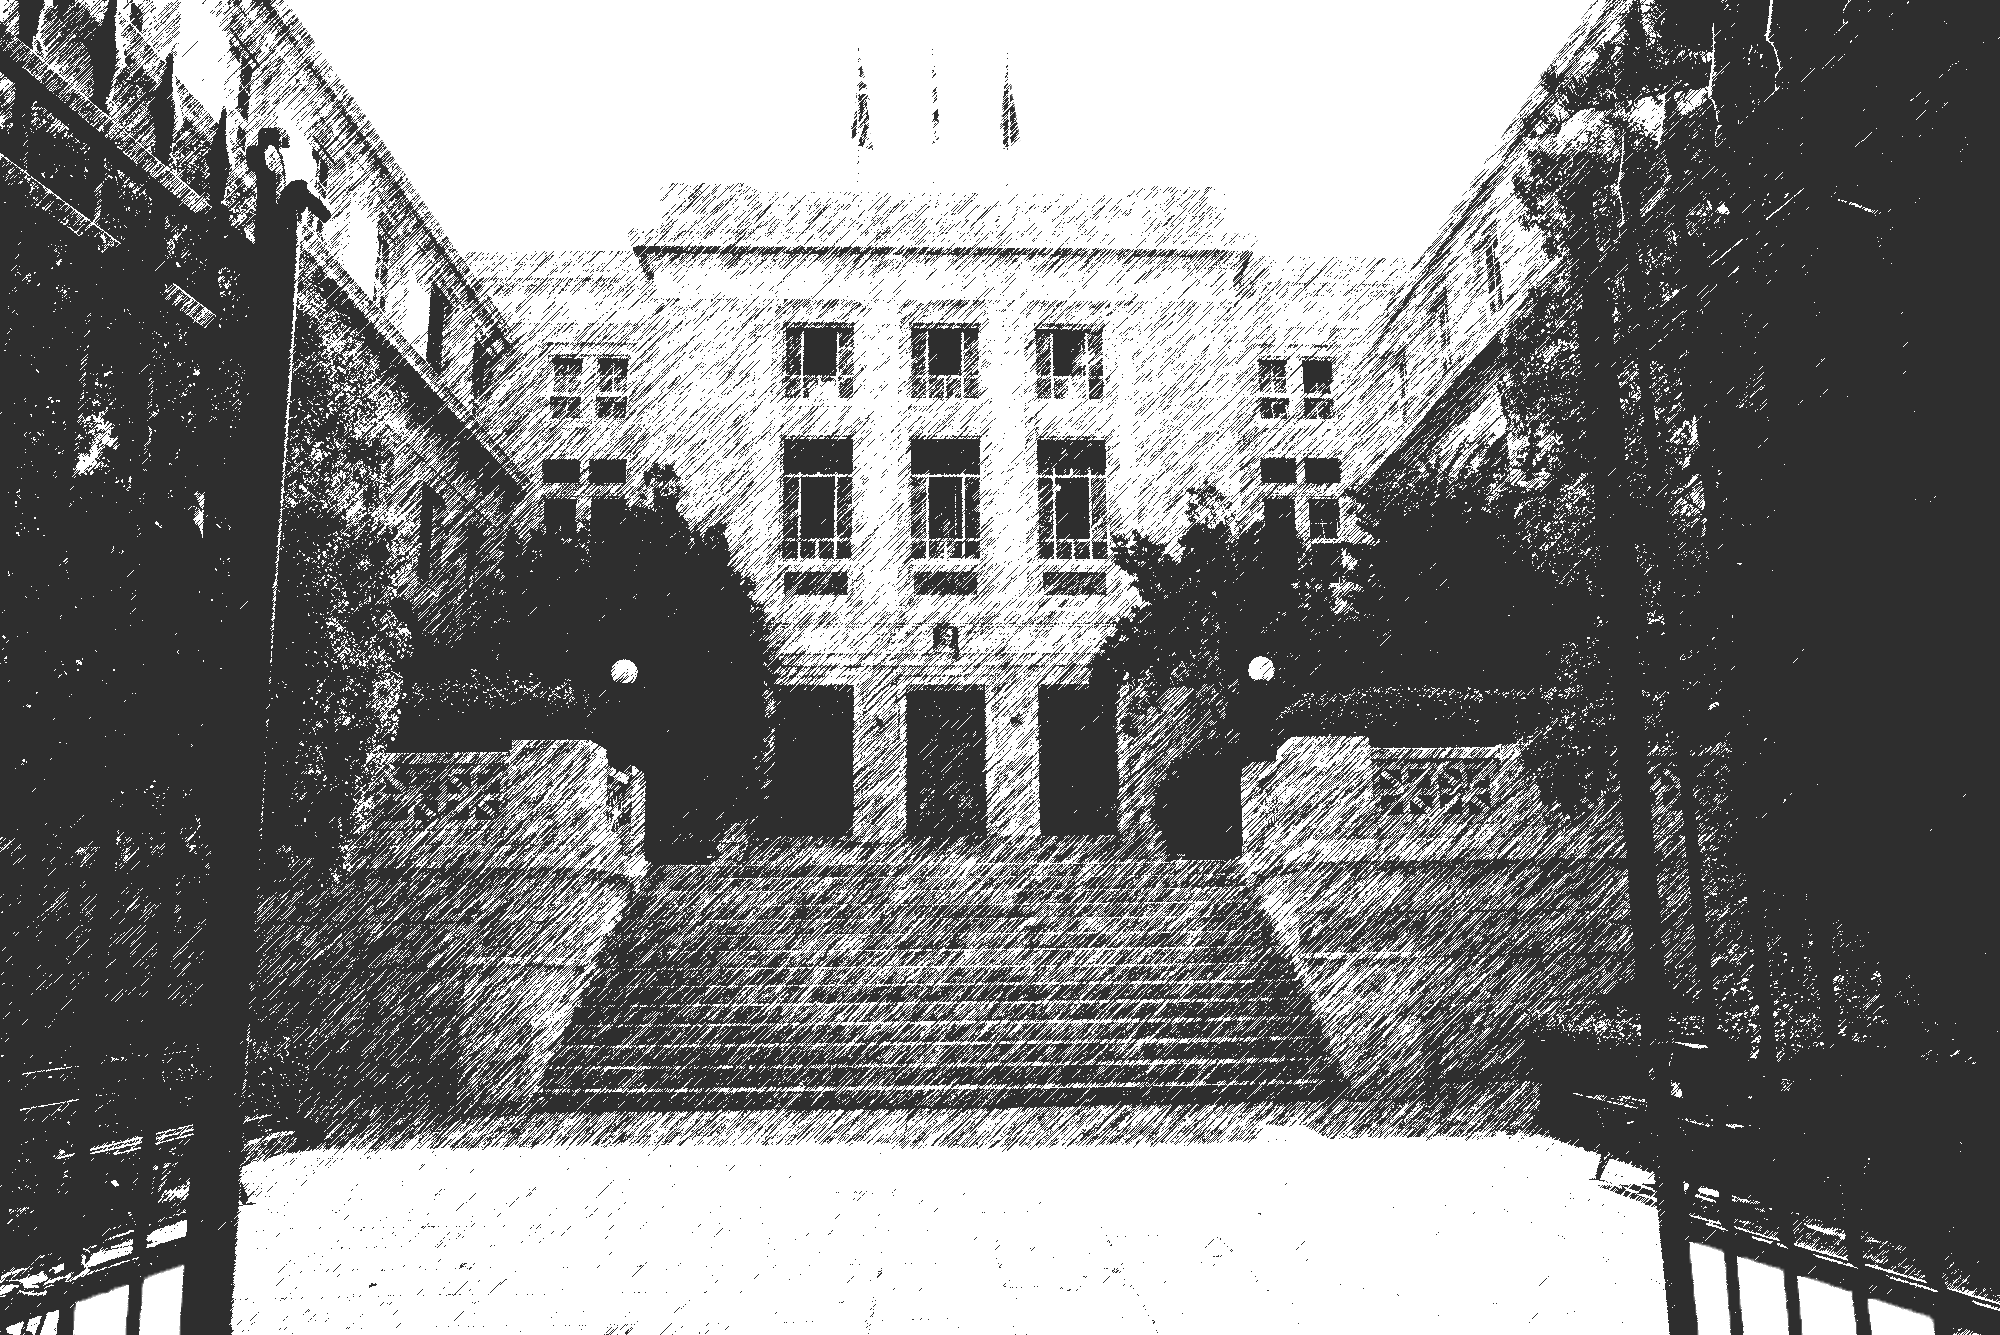
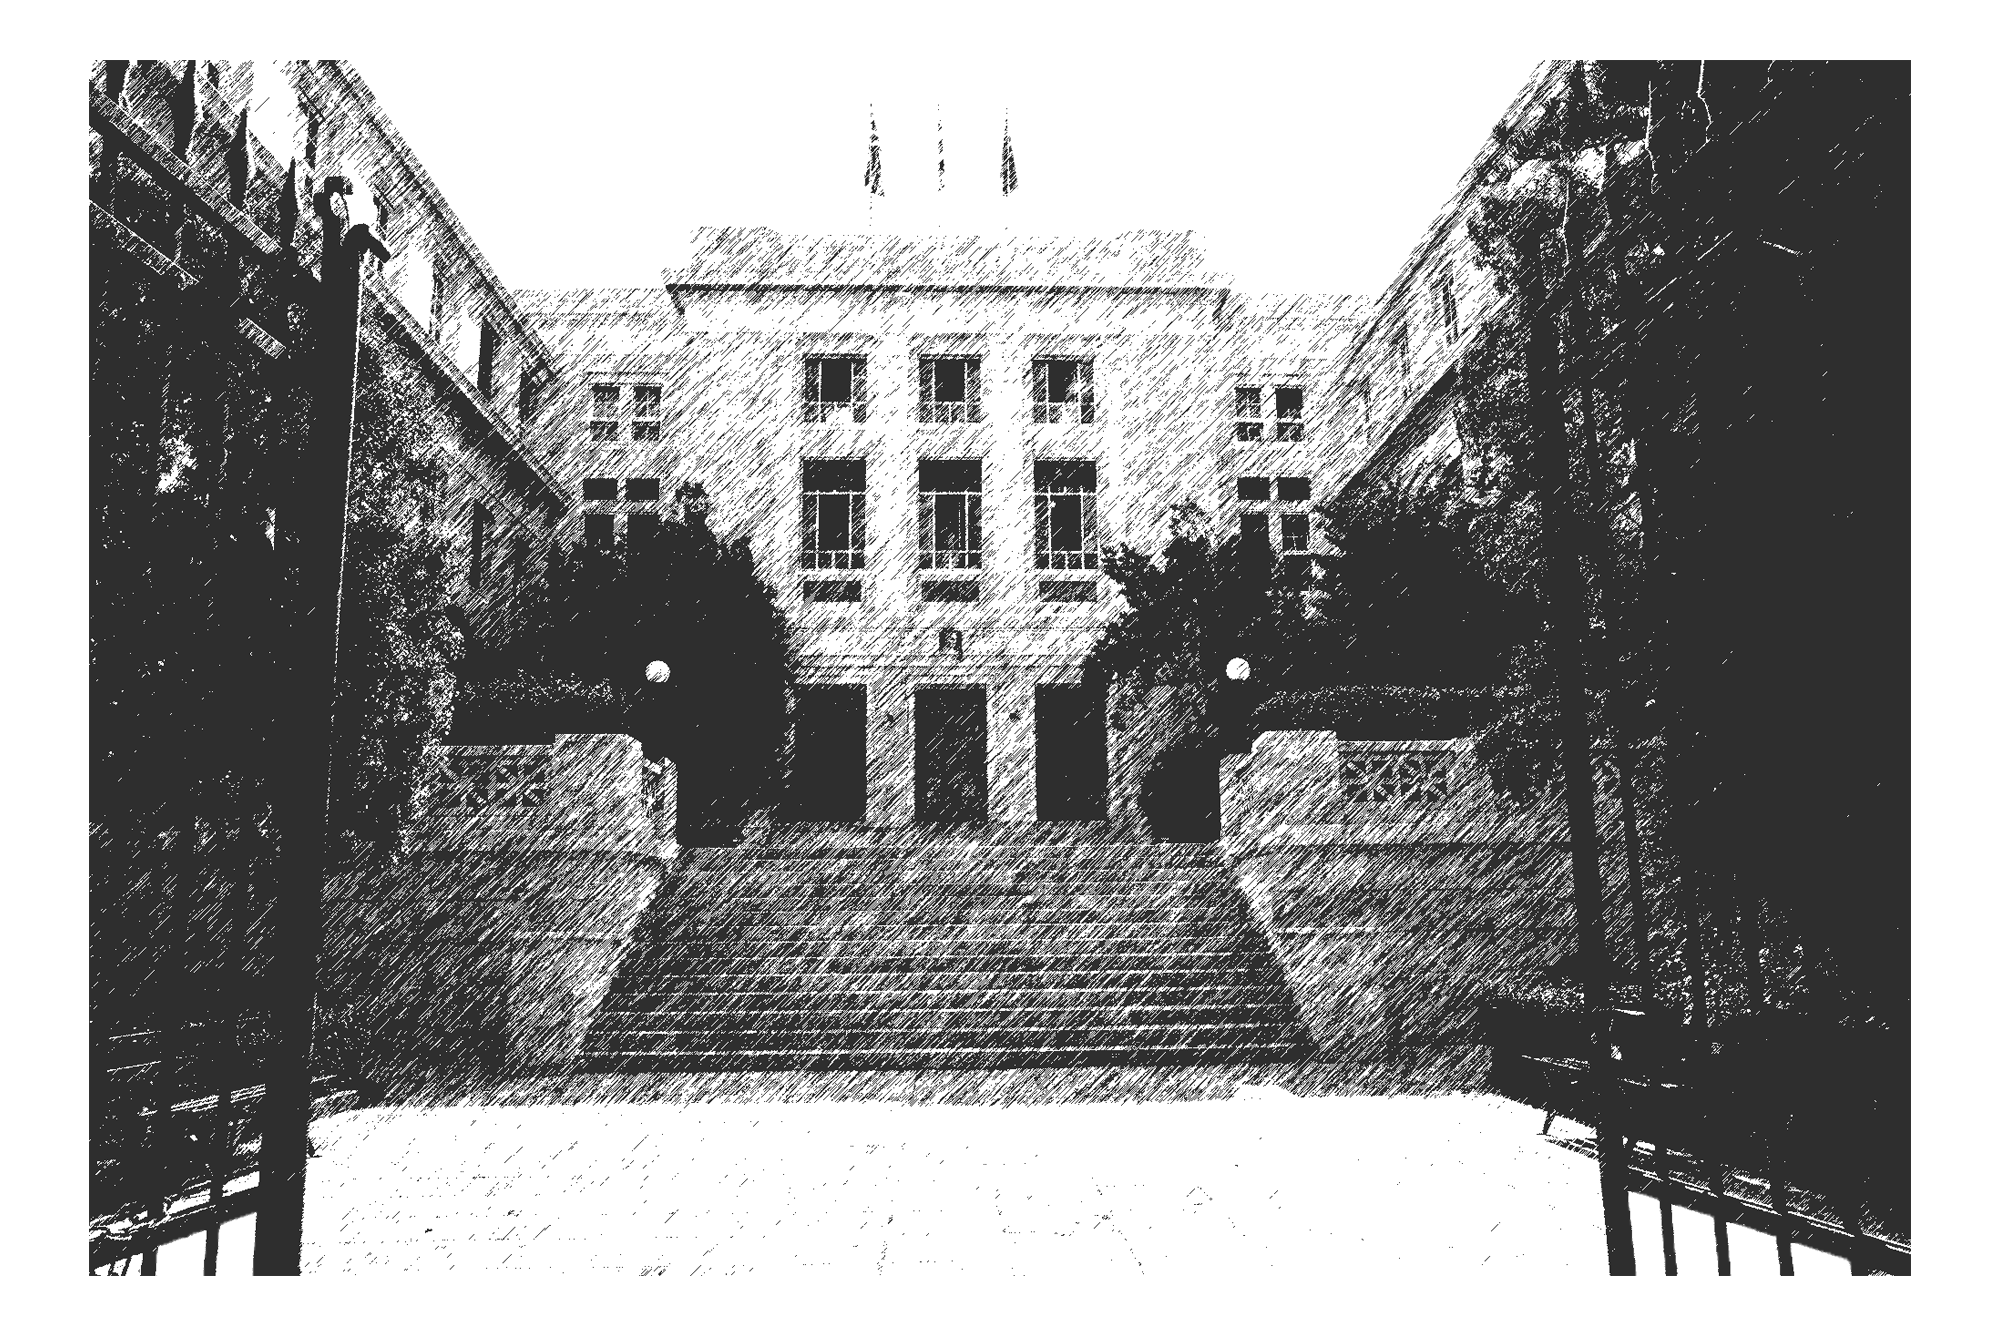
Header media queries done + new vasilis pic

diff --git a/src/components/Header/Header.css b/src/components/Header/Header.css
@@ -100,3 +100,52 @@
 .social__github{
     margin-right: 2rem;
 }
+
+/* MEDIA QUERIES */
+
+@media only screen and (max-width: 768px){
+    .social__linkedin{
+        margin-right: 3rem;
+    }
+    
+    .social__github{
+        margin-right: 2rem;
+    }
+    
+    .logo{
+        margin-left: 5rem;
+        width: 8rem;
+        height: 8rem;
+    }
+
+    .logo__text{
+        font-size: .9rem;
+    }
+}
+
+@media only screen and (max-width: 480px){
+
+    .social__linkedin,
+    .social__github{
+        width: 1.6rem;
+        height: auto;
+        transition: opacity .2s ease-out;
+    }
+
+    .social__linkedin{
+        margin-right: 2rem;
+    }
+    
+    .social__github{
+        margin-right: 1.7rem;
+    }
+    
+    .logo{
+        margin-left: 1rem;
+    }
+
+
+    .center_navigation{
+        font-size: 1.1rem; 
+    }
+}

diff --git a/src/components/Vasilis/Vasilis.js b/src/components/Vasilis/Vasilis.js
@@ -1,6 +1,6 @@
 import React, { Component } from 'react';
 import './Vasilis.css';
-import profilePicture from './vasilis@0,33x.png';
+import profilePicture from './vasilis4.png';
 
 class Vasilis extends Component {
   render() {

diff --git a/src/components/Vasilis/Vasilis.css b/src/components/Vasilis/Vasilis.css
@@ -15,6 +15,6 @@
     margin-right: auto;
     left: 0;
     right: 0;
-    max-height: 95%;
+    max-height: 85%;
     width: auto;
 }
